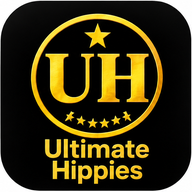
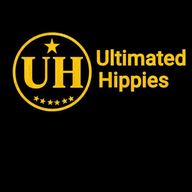
Add files via upload

diff --git a/index.html b/index.html
@@ -143,7 +143,7 @@ button{border:0;border-radius:7px;padding:10px 15px;font-weight:700;cursor:point
 </div>
 
 <aside class="sidebar">
-  <div class="brand"><div class="logo-wrap"><img class="logo" src="./icon-192.png" alt="ULTIMATED HIPPIES logo"><div><div class="brand-title">ULTIMATED HIPPIES</div><span>MANAGEMENT PORTAL</span></div></div></div>
+  <div class="brand"><div class="logo-wrap"><img class="logo" src="./logo.png" alt="ULTIMATED HIPPIES logo"><div><div class="brand-title">ULTIMATED HIPPIES</div><span>MANAGEMENT PORTAL</span></div></div></div>
   <div class="role">Current access <b id="roleLabel">Public Access</b><button class="outline logout-btn" id="logoutBtn" onclick="logout()" style="display:none;margin-top:9px;width:100%">Log Out</button></div>
   <nav><ul class="nav">
     <li class="member-only" onclick="show('dashboard',this)">📊 Dashboard</li>
@@ -2231,7 +2231,7 @@ window.addEventListener('DOMContentLoaded',async function(){
   if(document.getElementById('elMembers'))document.getElementById('elMembers').value=db.members.length;
   if(document.getElementById('voterName'))document.getElementById('voterName').textContent=currentMember?currentMember.name:'Not logged in';
   applyAccess();
-  const logo=document.querySelector('.logo');const authLogo=document.getElementById('authLogo');if(authLogo&&logo)authLogo.src=logo.src||'';
+  const logo=document.querySelector('.logo');const authLogo=document.getElementById('authLogo');if(authLogo&&logo)authLogo.src='./logo.png';
   await loadDatabaseFromFirebase();renderAll();
   // Start the shared license listener before finishing initialization.
   await startGlobalLicenseSync();
@@ -2253,6 +2253,27 @@ window.addEventListener('DOMContentLoaded',async function(){
   if(!currentMember){document.getElementById('authScreen').style.display='flex';show('constitution',document.querySelector('.nav li.public-only'));}
   else{document.getElementById('authScreen').style.display='none';show('dashboard',document.querySelector('.nav li.member-only'));}
 });</script>
-<script>let hippiesDeferredInstallPrompt=null;window.addEventListener('beforeinstallprompt',e=>{e.preventDefault();hippiesDeferredInstallPrompt=e;if(!localStorage.getItem('hippiesInstallDismissed'))setTimeout(showHippiesInstallPrompt,1200);});function showHippiesInstallPrompt(){if(document.getElementById('hippiesInstallPrompt')||!hippiesDeferredInstallPrompt)return;const box=document.createElement('div');box.id='hippiesInstallPrompt';box.style.cssText='position:fixed;left:16px;right:16px;bottom:16px;z-index:5000;background:#fff;border:2px solid #ca8a04;border-radius:16px;padding:16px;box-shadow:0 20px 60px #0005;max-width:520px;margin:auto';box.innerHTML='<div style="display:flex;gap:12px;align-items:center"><img src="./icon-192.png" style="width:54px;height:54px;border-radius:12px;object-fit:cover;background:#000"><div style="flex:1"><b style="font-size:15px;color:#166534">Install ULTIMADED HIPPIES</b><div style="font-size:12px;color:#475569;margin-top:4px">Install the portal on your phone or computer for quick access.</div></div></div><div style="display:flex;gap:8px;margin-top:12px"><button class="success" id="hippiesInstallBtn" style="flex:1">Install App</button><button class="outline" id="hippiesInstallLater">Later</button></div>';document.body.appendChild(box);document.getElementById('hippiesInstallBtn').onclick=async()=>{if(!hippiesDeferredInstallPrompt)return;hippiesDeferredInstallPrompt.prompt();await hippiesDeferredInstallPrompt.userChoice;hippiesDeferredInstallPrompt=null;box.remove();};document.getElementById('hippiesInstallLater').onclick=()=>{localStorage.setItem('hippiesInstallDismissed','1');box.remove();};}window.addEventListener('appinstalled',()=>{localStorage.removeItem('hippiesInstallDismissed');document.getElementById('hippiesInstallPrompt')?.remove();hippiesDeferredInstallPrompt=null;});if('serviceWorker'in navigator)window.addEventListener('load',()=>navigator.serviceWorker.register('./sw.js').catch(e=>console.warn('PWA service worker registration failed',e)));</script>
+
+<script>
+/* HIPPIES compatibility bridge: inline HTML handlers must always resolve globally. */
+(function(){
+  function fallbackSwitchAuth(mode){
+    const login=document.getElementById('loginPanel');
+    const pub=document.getElementById('publicPanel');
+    const loginTab=document.getElementById('memberLoginTab');
+    const pubTab=document.getElementById('publicTab');
+    if(login) login.classList.toggle('active', mode==='login');
+    if(pub) pub.classList.toggle('active', mode==='public');
+    if(loginTab) loginTab.className=mode==='login'?'primary':'outline';
+    if(pubTab) pubTab.className=mode==='public'?'primary':'outline';
+    if(typeof window.clearAuthMessages==='function') window.clearAuthMessages();
+  }
+  window.switchAuth = (typeof window.switchAuth==='function') ? window.switchAuth : fallbackSwitchAuth;
+  if(typeof window.memberLogin!=='function' && typeof memberLogin==='function') window.memberLogin=memberLogin;
+  if(typeof window.enterPublic!=='function' && typeof enterPublic==='function') window.enterPublic=enterPublic;
+  if(typeof window.logout!=='function' && typeof logout==='function') window.logout=logout;
+})();
+</script>
+<script>let hippiesDeferredInstallPrompt=null;window.addEventListener('beforeinstallprompt',e=>{e.preventDefault();hippiesDeferredInstallPrompt=e;if(!localStorage.getItem('hippiesInstallDismissed'))setTimeout(showHippiesInstallPrompt,1200);});function showHippiesInstallPrompt(){if(document.getElementById('hippiesInstallPrompt')||!hippiesDeferredInstallPrompt)return;const box=document.createElement('div');box.id='hippiesInstallPrompt';box.style.cssText='position:fixed;left:16px;right:16px;bottom:16px;z-index:5000;background:#fff;border:2px solid #ca8a04;border-radius:16px;padding:16px;box-shadow:0 20px 60px #0005;max-width:520px;margin:auto';box.innerHTML='<div style="display:flex;gap:12px;align-items:center"><img src="./icon-192.png" style="width:54px;height:54px;border-radius:12px;object-fit:cover;background:#000"><div style="flex:1"><b style="font-size:15px;color:#166534">Install ULTIMADED HIPPIES</b><div style="font-size:12px;color:#475569;margin-top:4px">Install the portal on your phone or computer for quick access.</div></div></div><div style="display:flex;gap:8px;margin-top:12px"><button class="success" id="hippiesInstallBtn" style="flex:1">Install App</button><button class="outline" id="hippiesInstallLater">Later</button></div>';document.body.appendChild(box);document.getElementById('hippiesInstallBtn').onclick=async()=>{if(!hippiesDeferredInstallPrompt)return;hippiesDeferredInstallPrompt.prompt();await hippiesDeferredInstallPrompt.userChoice;hippiesDeferredInstallPrompt=null;box.remove();};document.getElementById('hippiesInstallLater').onclick=()=>{localStorage.setItem('hippiesInstallDismissed','1');box.remove();};}window.addEventListener('appinstalled',()=>{localStorage.removeItem('hippiesInstallDismissed');document.getElementById('hippiesInstallPrompt')?.remove();hippiesDeferredInstallPrompt=null;});if('serviceWorker'in navigator)window.addEventListener('load',()=>navigator.serviceWorker.register('./sw.js?v=4').catch(e=>console.warn('PWA service worker registration failed',e)));</script>
 </body>
 </html>

diff --git a/sw.js b/sw.js
@@ -1,5 +1,17 @@
-const CACHE='hippies-pwa-v5';
-const SHELL=['./','./index.html','./manifest.webmanifest','./icon-192.png','./icon-512.png'];
-self.addEventListener('install',e=>e.waitUntil(caches.open(CACHE).then(c=>c.addAll(SHELL)).then(()=>self.skipWaiting())));
-self.addEventListener('activate',e=>e.waitUntil(caches.keys().then(keys=>Promise.all(keys.filter(k=>k!==CACHE).map(k=>caches.delete(k)))).then(()=>self.clients.claim())));
-self.addEventListener('fetch',e=>{if(e.request.method!=='GET')return;const u=new URL(e.request.url);if(u.origin!==location.origin)return;if(e.request.mode==='navigate'){e.respondWith(fetch(e.request).catch(()=>caches.match('./index.html')));return;}e.respondWith(caches.match(e.request).then(c=>c||fetch(e.request).then(r=>{const cp=r.clone();caches.open(CACHE).then(x=>x.put(e.request,cp));return r;})));});
+const CACHE_NAME = "ultimated-hippies-v4";
+const CORE = ["./", "./index.html", "./manifest.webmanifest", "./icon-192.png", "./icon-512.png", "./logo.png"];
+self.addEventListener("install", event => {
+  self.skipWaiting();
+  event.waitUntil(caches.open(CACHE_NAME).then(cache => cache.addAll(CORE)).catch(()=>{}));
+});
+self.addEventListener("activate", event => {
+  event.waitUntil(caches.keys().then(keys => Promise.all(keys.filter(k => k !== CACHE_NAME).map(k => caches.delete(k)))).then(()=>self.clients.claim()));
+});
+self.addEventListener("fetch", event => {
+  if (event.request.method !== "GET") return;
+  event.respondWith(fetch(event.request).then(response => {
+    const copy=response.clone();
+    caches.open(CACHE_NAME).then(cache=>cache.put(event.request,copy)).catch(()=>{});
+    return response;
+  }).catch(()=>caches.match(event.request).then(r=>r || caches.match("./index.html"))));
+});
